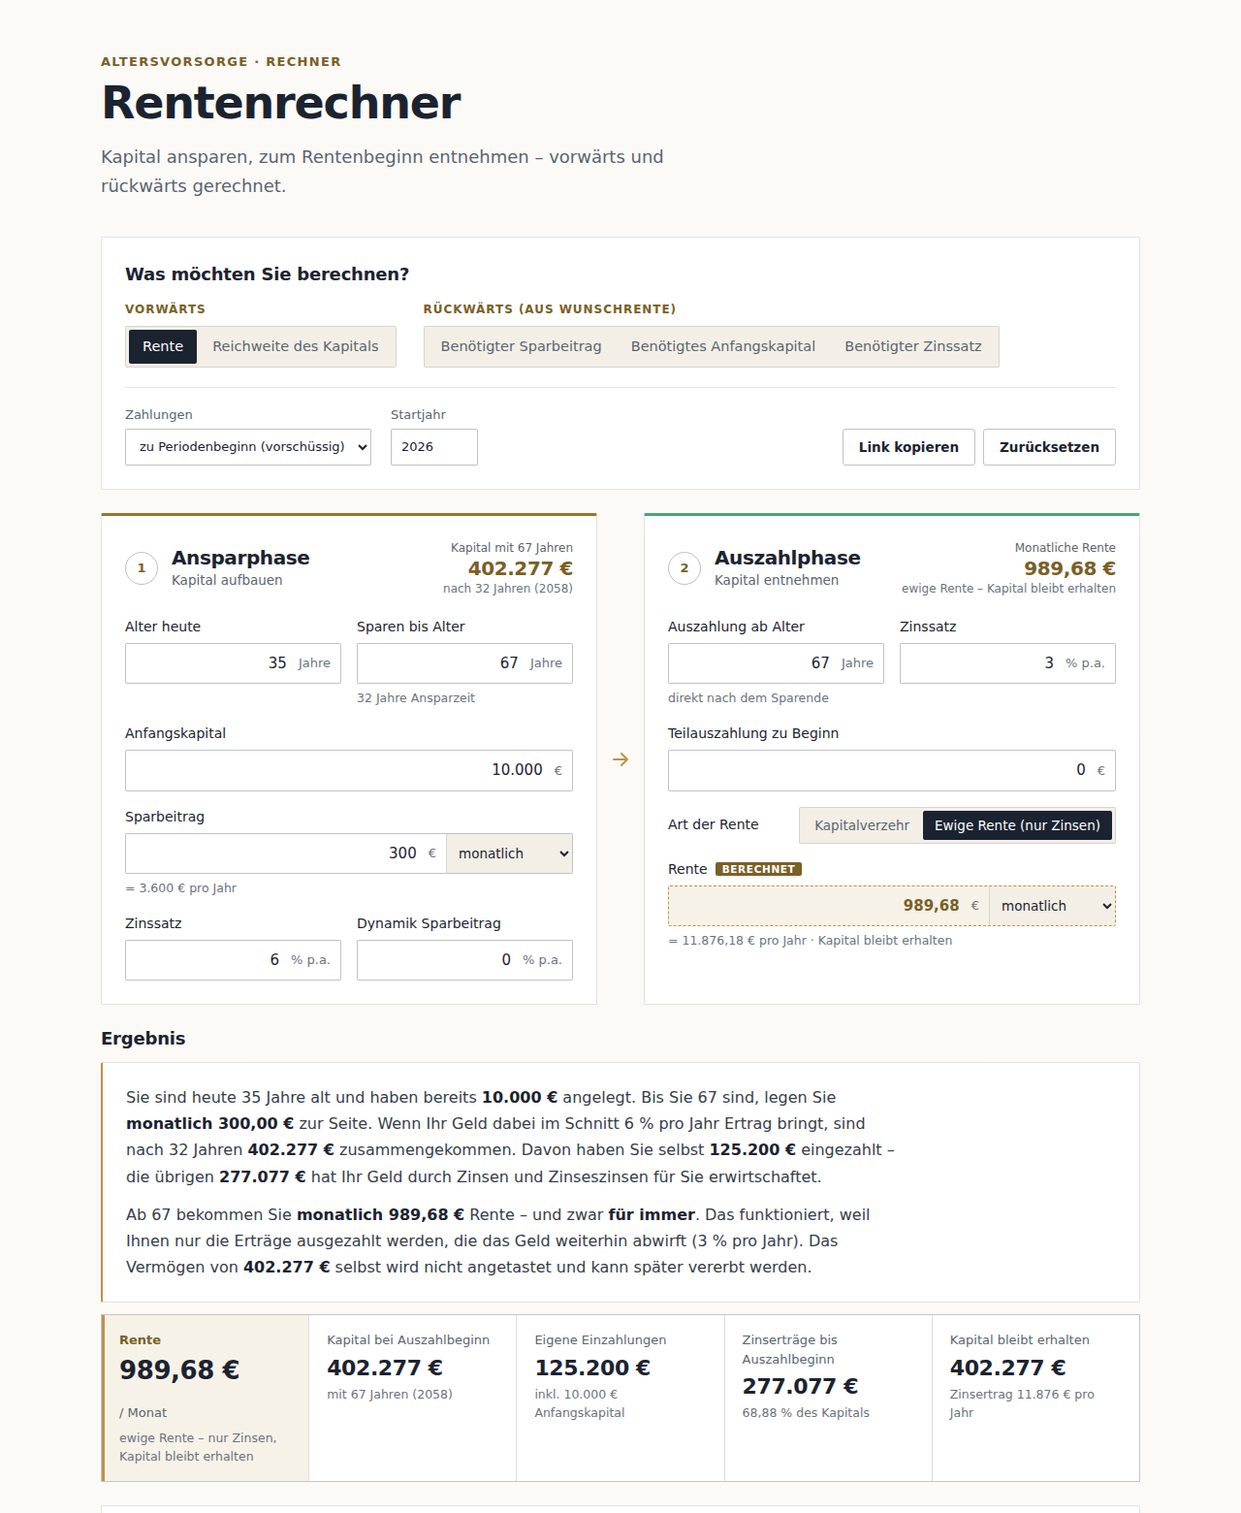
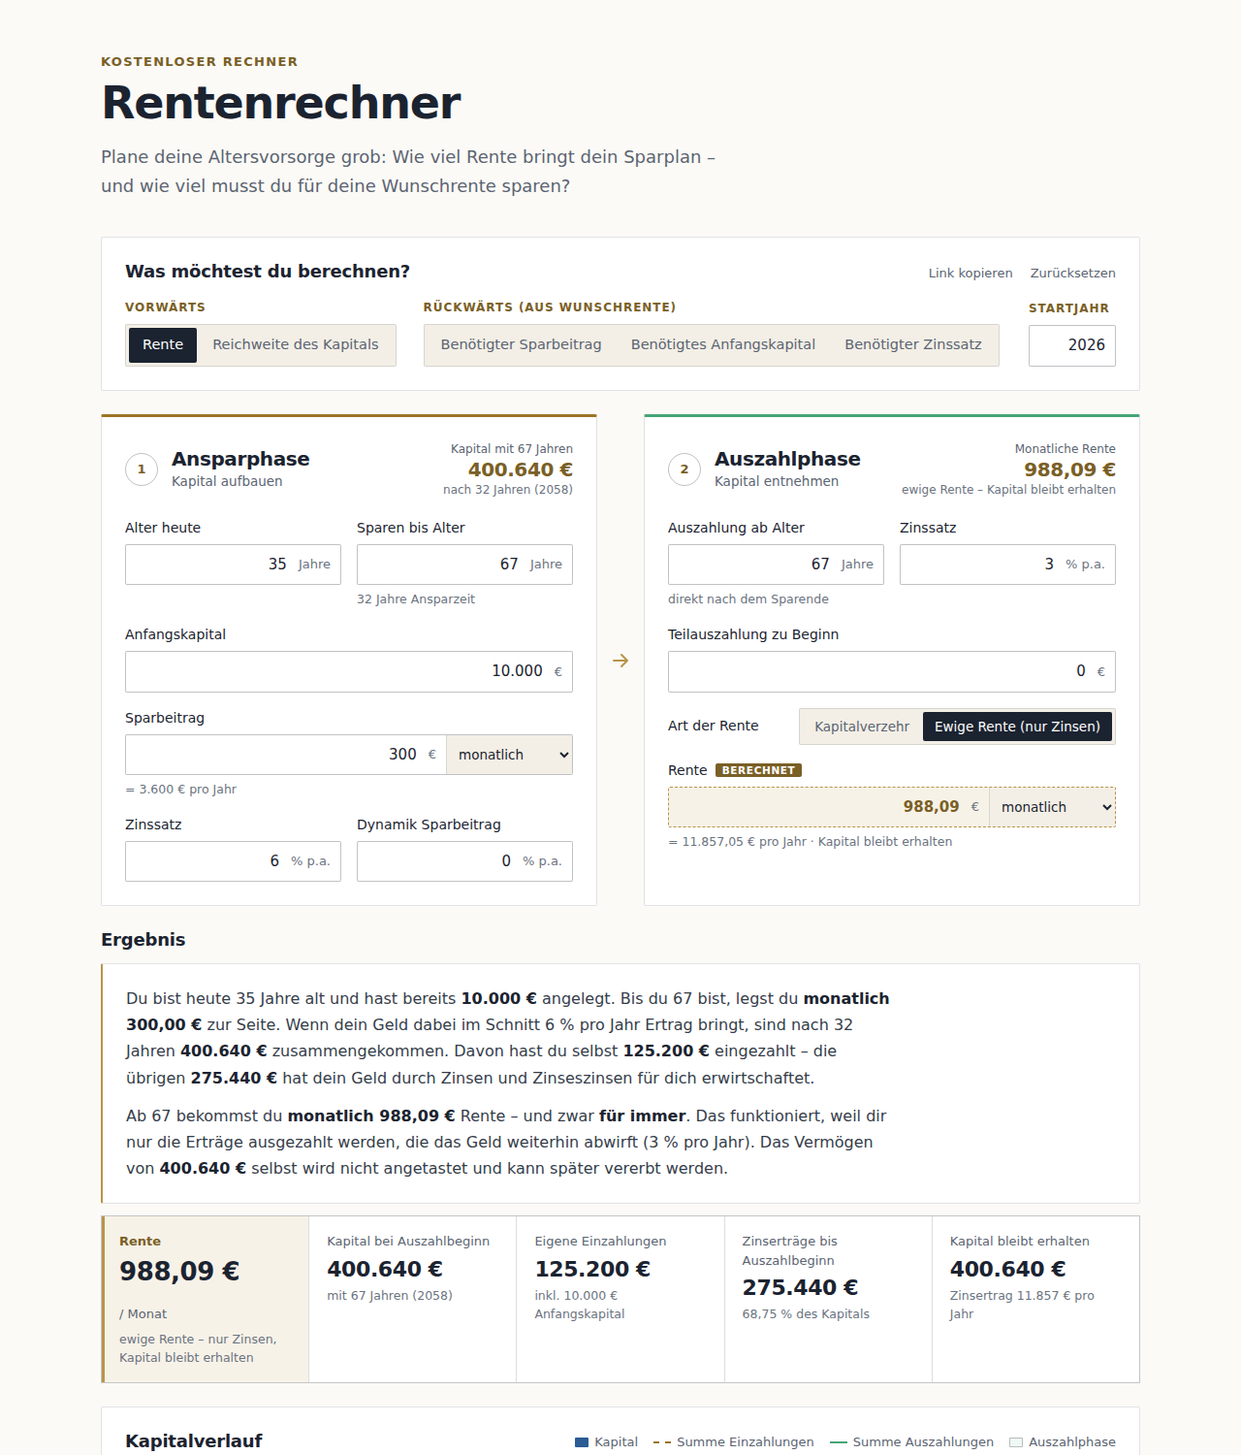
Nachschüssig ohne Auswahl, Du-Form, Startjahr und Links in der Zielauswahl
- Zahlungen fest nachschüssig; die Auswahl „Zahlungen“ entfällt, alte Links mit
  vorschuessig im Hash werden ignoriert
- Oberfläche und Ergebnistext duzen
- Startjahr steht in der Zeile von Vorwärts/Rückwärts; „Link kopieren“ und
  „Zurücksetzen“ dezent oben rechts neben „Was möchtest du berechnen?“
- Seitenkopf knapper: einfacher, kostenloser Rechner für die grobe Planung
- Reichweite: Alter „bis du X bist“ passt zur Rundung der Jahre
- README und Screenshot aktualisiert

Claude-Session: https://claude.ai/code/session_014UZBi7kDmATLXYqEHmzrQu

diff --git a/js/app.js b/js/app.js
@@ -26,6 +26,11 @@
     return (ganz ? f0 : f2).format(v);
   }
 
+  // Alter am Ende der Reichweite, passend zur Rundung von jahreText (auf ganze Monate)
+  function reichtBisAlter(p, e) {
+    return p.auszahlBeginnAlter + Math.floor(Math.round(e.reichweiteJahre * 12) / 12);
+  }
+
   function jahreText(y) {
     if (!Number.isFinite(y)) return 'unbegrenzt';
     let j = Math.floor(y + 1e-9);
@@ -59,11 +64,10 @@
     const werte = standard();
     let gefunden = q.has('ziel');
     for (const [k, v] of q) {
-      if (k === 'ziel') continue;
+      if (k === 'ziel' || k === 'vorschuessig') continue; // Zahlungsweise ist fest nachschüssig
       if (!(k in werte)) continue;
       gefunden = true;
       if (k === 'entnahmeModus') werte[k] = v === 'ewig' ? 'ewig' : 'dauer';
-      else if (k === 'vorschuessig') werte[k] = v !== 'false';
       else if (Number.isFinite(Number(v))) werte[k] = Number(v);
     }
     if (!gefunden) return false;
@@ -76,7 +80,7 @@
     q.set('ziel', zustand.ziel);
     const feld = R.ZIELE[zustand.ziel].feld;
     for (const [k, v] of Object.entries(zustand.werte)) {
-      if (k === feld) continue;
+      if (k === feld || k === 'vorschuessig') continue;
       q.set(k, typeof v === 'number' ? String(Math.round(v * 1e6) / 1e6) : String(v));
     }
     history.replaceState(null, '', `#${q.toString()}`);
@@ -107,7 +111,6 @@
     }
     $('#f-sparIntervall').value = String(zustand.werte.sparIntervall);
     $('#f-rentenIntervall').value = String(zustand.werte.rentenIntervall);
-    $('#f-vorschuessig').value = String(zustand.werte.vorschuessig);
     $(`input[name="ziel"][value="${zustand.ziel}"]`).checked = true;
     $(`input[name="entnahmeModus"][value="${zustand.werte.entnahmeModus}"]`).checked = true;
   }
@@ -279,7 +282,7 @@
     if (zustand.ziel === 'reichweite') {
       const endlich = Number.isFinite(e.reichweiteJahre);
       kennzahl($('#kennzahl-entnahme'), 'Rente reicht bis',
-        endlich ? `Alter ${f0.format(Math.floor(e.endeAlter + 1e-9))}` : 'unbegrenzt', '',
+        endlich ? `Alter ${f0.format(reichtBisAlter(p, e))}` : 'unbegrenzt', '',
         endlich ? `${jahreText(e.reichweiteJahre)} lang` : 'Kapital wird nicht aufgebraucht');
       return;
     }
@@ -312,82 +315,82 @@
     if (R.ZIELE[ziel].richtung === 'rueckwaerts') {
       const dauer = e.modus === 'ewig' ? 'dauerhaft' : `${jahre(p.entnahmeDauer)} lang`;
       const t = [
-        `Ihr Ziel: Ab ${p.auszahlBeginnAlter} Jahren möchten Sie ${dauer} `, B(renteText),
-        ' Rente bekommen. Dafür brauchen Sie zum Rentenbeginn ein Vermögen von ', B(euro(erg.kapitalBedarf)), '. ',
+        `Dein Ziel: Ab ${p.auszahlBeginnAlter} Jahren möchtest du ${dauer} `, B(renteText),
+        ' Rente bekommen. Dafür brauchst du zum Rentenbeginn ein Vermögen von ', B(euro(erg.kapitalBedarf)), '. ',
       ];
       const nichtNoetig = (erg.hinweise || []).length && erg.geloest.wert === 0;
       if (ziel === 'sparrate') {
         t.push(...(nichtNoetig
-          ? ['Das erreichen Sie schon ohne weitere Sparbeiträge – Ihr Startbetrag reicht bereits aus.']
-          : ['Das erreichen Sie, wenn Sie bis dahin ', B(sparText), ' zur Seite legen.']));
+          ? ['Das erreichst du schon ohne weitere Sparbeiträge – dein Startbetrag reicht bereits aus.']
+          : ['Das erreichst du, wenn du bis dahin ', B(sparText), ' zur Seite legst.']));
       } else if (ziel === 'anfangskapital') {
         t.push(...(nichtNoetig
-          ? ['Ein Startbetrag ist dafür nicht nötig – Ihre regelmäßigen Sparbeiträge reichen bereits aus.']
-          : ['Das erreichen Sie, wenn Sie heute einmalig ', B(euro(p.anfangskapital)), ' anlegen.']));
+          ? ['Ein Startbetrag ist dafür nicht nötig – deine regelmäßigen Sparbeiträge reichen bereits aus.']
+          : ['Das erreichst du, wenn du heute einmalig ', B(euro(p.anfangskapital)), ' anlegst.']));
       } else {
-        t.push('Das klappt, wenn sich Ihr Geld beim Sparen jedes Jahr um durchschnittlich ',
+        t.push('Das klappt, wenn sich dein Geld beim Sparen jedes Jahr um durchschnittlich ',
           B(`${nf(2, 2).format(p.zinsAnspar * 100)} %`), ' vermehrt.');
       }
       absaetze.push(t);
     }
 
     // Ansparphase
-    const an = [`Sie sind heute ${p.alterHeute} Jahre alt`];
-    if (p.anfangskapital > 0) an.push(' und haben bereits ', B(euro(p.anfangskapital)), ' angelegt');
+    const an = [`Du bist heute ${p.alterHeute} Jahre alt`];
+    if (p.anfangskapital > 0) an.push(' und hast bereits ', B(euro(p.anfangskapital)), ' angelegt');
     an.push('. ');
     if (a.sparJahre > 0 && p.sparrate > 0) {
-      an.push(`Bis Sie ${p.sparEndeAlter} sind, legen Sie `, B(sparText), ' zur Seite');
+      an.push(`Bis du ${p.sparEndeAlter} bist, legst du `, B(sparText), ' zur Seite');
       if (p.sparDynamik) an.push(` und erhöhen den Betrag jedes Jahr um ${pz(p.sparDynamik)}`);
       an.push('. ');
     }
     if (a.sparJahre > 0) {
       const ertraege = a.kapitalSparende - a.einzahlungen;
-      an.push(`Wenn Ihr Geld dabei im Schnitt ${pz(p.zinsAnspar)} pro Jahr Ertrag bringt, sind nach ${jahrenDativ(a.sparJahre)} `,
-        B(euro(a.kapitalSparende)), ' zusammengekommen. Davon haben Sie selbst ', B(euro(a.einzahlungen)), ' eingezahlt');
+      an.push(`Wenn dein Geld dabei im Schnitt ${pz(p.zinsAnspar)} pro Jahr Ertrag bringt, sind nach ${jahrenDativ(a.sparJahre)} `,
+        B(euro(a.kapitalSparende)), ' zusammengekommen. Davon hast du selbst ', B(euro(a.einzahlungen)), ' eingezahlt');
       if (ertraege >= 0.5) {
-        an.push(' – die übrigen ', B(euro(ertraege)), ' hat Ihr Geld durch Zinsen und Zinseszinsen für Sie erwirtschaftet. ');
+        an.push(' – die übrigen ', B(euro(ertraege)), ' hat dein Geld durch Zinsen und Zinseszinsen für dich erwirtschaftet. ');
       } else {
         an.push('. ');
       }
     }
     if (a.ruheJahre > 0) {
-      an.push(`Danach zahlen Sie nichts mehr ein, das Geld bleibt aber noch ${jahre(a.ruheJahre)} angelegt und wächst bis zum Rentenbeginn mit ${p.auszahlBeginnAlter} auf `,
+      an.push(`Danach zahlst du nichts mehr ein, das Geld bleibt aber noch ${jahre(a.ruheJahre)} angelegt und wächst bis zum Rentenbeginn mit ${p.auszahlBeginnAlter} auf `,
         B(euro(a.kapitalAuszahlbeginn)), '.');
     } else if (a.sparJahre === 0) {
-      an.push('Zum Rentenbeginn stehen Ihnen ', B(euro(a.kapitalAuszahlbeginn)), ' zur Verfügung.');
+      an.push('Zum Rentenbeginn stehen dir ', B(euro(a.kapitalAuszahlbeginn)), ' zur Verfügung.');
     }
     absaetze.push(an);
 
     // Auszahlphase
     const aus = [];
     if (p.teilauszahlung > 0) {
-      aus.push(`Zum Rentenbeginn mit ${p.auszahlBeginnAlter} lassen Sie sich einmalig `, B(euro(p.teilauszahlung)),
+      aus.push(`Zum Rentenbeginn mit ${p.auszahlBeginnAlter} lässt du dir einmalig `, B(euro(p.teilauszahlung)),
         ' auszahlen, zum Beispiel für eine größere Anschaffung. Übrig bleiben ', B(euro(e.kapitalNachTeilauszahlung)), '. ');
     }
     const start = p.teilauszahlung > 0 ? 'Aus diesem Betrag' : `Ab ${p.auszahlBeginnAlter}`;
     const renten = e.summeAuszahlungen - e.teilauszahlung;
     const gesamt = () => {
-      aus.push(' Insgesamt bekommen Sie so ', B(euro(renten)), ' ausgezahlt');
+      aus.push(' Insgesamt bekommst du so ', B(euro(renten)), ' ausgezahlt');
       if (e.zinsen >= 0.5) aus.push(` – ${euro(e.zinsen)} davon sind Erträge, die erst während der Rentenzeit dazukommen`);
       aus.push('.');
     };
     if (e.modus === 'ewig') {
-      aus.push(`${start} bekommen Sie `, B(renteText), ' Rente – und zwar ', B('für immer'),
-        `. Das funktioniert, weil Ihnen nur die Erträge ausgezahlt werden, die das Geld weiterhin abwirft (${pz(p.zinsEntnahme)} pro Jahr). Das Vermögen von `,
+      aus.push(`${start} bekommst du `, B(renteText), ' Rente – und zwar ', B('für immer'),
+        `. Das funktioniert, weil dir nur die Erträge ausgezahlt werden, die das Geld weiterhin abwirft (${pz(p.zinsEntnahme)} pro Jahr). Das Vermögen von `,
         B(euro(e.kapitalNachTeilauszahlung)), ' selbst wird nicht angetastet und kann später vererbt werden.');
     } else if (ziel === 'reichweite') {
-      aus.push(`Wenn Sie sich ${start === 'Aus diesem Betrag' ? 'daraus' : `ab ${p.auszahlBeginnAlter}`} `, B(renteText),
-        ` auszahlen lassen und das restliche Geld weiterhin ${pz(p.zinsEntnahme)} pro Jahr bringt, `);
+      aus.push(`Wenn du dir ${start === 'Aus diesem Betrag' ? 'daraus' : `ab ${p.auszahlBeginnAlter}`} `, B(renteText),
+        ` auszahlen lässt und das restliche Geld weiterhin ${pz(p.zinsEntnahme)} pro Jahr bringt, `);
       if (Number.isFinite(e.reichweiteJahre)) {
-        aus.push('reicht Ihr Vermögen ', B(jahreText(e.reichweiteJahre)), ' – also ungefähr bis Sie ',
-          B(f0.format(Math.floor(e.endeAlter + 1e-9))), ' sind. Danach ist es aufgebraucht.');
+        aus.push('reicht dein Vermögen ', B(jahreText(e.reichweiteJahre)), ' – also ungefähr bis du ',
+          B(f0.format(reichtBisAlter(p, e))), ' bist. Danach ist es aufgebraucht.');
         gesamt();
       } else {
-        aus.push('wird Ihr Vermögen ', B('nie aufgebraucht'), ': Die laufenden Erträge sind mindestens so hoch wie Ihre Rente.');
+        aus.push('wird dein Vermögen ', B('nie aufgebraucht'), ': Die laufenden Erträge sind mindestens so hoch wie deine Rente.');
       }
     } else {
-      aus.push(`${start} bekommen Sie `, B(jahreText(e.reichweiteJahre)), ' lang, also bis Sie ',
-        B(nf(0, 1).format(e.endeAlter)), ' sind, ', B(renteText), ' Rente');
+      aus.push(`${start} bekommst du `, B(jahreText(e.reichweiteJahre)), ' lang, also bis du ',
+        B(nf(0, 1).format(e.endeAlter)), ' bist, ', B(renteText), ' Rente');
       if (p.rentenDynamik && e.anzeigeJahre > 1) {
         aus.push(`, die jedes Jahr um ${pz(p.rentenDynamik)} steigt – zuletzt sind es ${euro(p.rente * Math.pow(1 + p.rentenDynamik, e.anzeigeJahre - 1), 2)}`);
       }
@@ -604,7 +607,6 @@
 
   $('#f-sparIntervall').addEventListener('change', (e) => { zustand.werte.sparIntervall = Number(e.target.value); berechnen(); });
   $('#f-rentenIntervall').addEventListener('change', (e) => { zustand.werte.rentenIntervall = Number(e.target.value); berechnen(); });
-  $('#f-vorschuessig').addEventListener('change', (e) => { zustand.werte.vorschuessig = e.target.value === 'true'; berechnen(); });
 
   for (const r of $$('input[name="entnahmeModus"]')) {
     r.addEventListener('change', () => { zustand.werte.entnahmeModus = r.value; berechnen(); });

diff --git a/index.html b/index.html
@@ -4,59 +4,49 @@
   <meta charset="utf-8">
   <meta name="viewport" content="width=device-width, initial-scale=1">
   <title>Rentenrechner</title>
-  <meta name="description" content="Rentenrechner mit Anspar- und Auszahlphase: Kapitalaufbau, Teilauszahlung, befristete oder ewige Rente – vorwärts und rückwärts gerechnet.">
+  <meta name="description" content="Einfacher, kostenloser Rentenrechner: Plane deine Altersvorsorge grob – wie viel Rente bringt dein Sparplan, und wie viel musst du für deine Wunschrente sparen?">
   <link rel="stylesheet" href="css/seite.css">
   <link rel="stylesheet" href="css/rentenrechner.css">
 </head>
 <body>
   <header class="kopf">
     <div class="kopf-inhalt">
-      <p class="kopf-kicker">Altersvorsorge · Rechner</p>
+      <p class="kopf-kicker">Kostenloser Rechner</p>
       <h1>Rentenrechner</h1>
-      <p class="kopf-lead">Kapital ansparen, zum Rentenbeginn entnehmen – vorwärts und rückwärts gerechnet.</p>
+      <p class="kopf-lead">Plane deine Altersvorsorge grob: Wie viel Rente bringt dein Sparplan – und wie viel musst du für deine Wunschrente sparen?</p>
     </div>
   </header>
 
   <main class="seite rr">
     <!-- Berechnungsziel -->
     <section class="karte ziel-karte" aria-labelledby="ziel-titel">
-      <h2 id="ziel-titel" class="sr-only">Berechnungsziel</h2>
-      <fieldset class="ziel-auswahl">
-        <legend>Was möchten Sie berechnen?</legend>
-        <div class="ziel-gruppen">
-          <div class="ziel-gruppe">
-            <span class="ziel-gruppe-titel">Vorwärts</span>
-            <div class="segmente">
-              <label><input type="radio" name="ziel" value="rente" checked><span>Rente</span></label>
-              <label><input type="radio" name="ziel" value="reichweite"><span>Reichweite des Kapitals</span></label>
-            </div>
-          </div>
-          <div class="ziel-gruppe">
-            <span class="ziel-gruppe-titel">Rückwärts (aus Wunschrente)</span>
-            <div class="segmente">
-              <label><input type="radio" name="ziel" value="sparrate"><span>Benötigter Sparbeitrag</span></label>
-              <label><input type="radio" name="ziel" value="anfangskapital"><span>Benötigtes Anfangskapital</span></label>
-              <label><input type="radio" name="ziel" value="zinsAnspar"><span>Benötigter Zinssatz</span></label>
-            </div>
+      <div class="ziel-kopf">
+        <h2 id="ziel-titel">Was möchtest du berechnen?</h2>
+        <div class="option-knoepfe">
+          <button type="button" class="knopf-dezent" id="btn-teilen">Link kopieren</button>
+          <button type="button" class="knopf-dezent" id="btn-reset">Zurücksetzen</button>
+        </div>
+      </div>
+      <div class="ziel-gruppen">
+        <div class="ziel-gruppe" role="radiogroup" aria-labelledby="ziel-vorwaerts">
+          <span class="ziel-gruppe-titel" id="ziel-vorwaerts">Vorwärts</span>
+          <div class="segmente">
+            <label><input type="radio" name="ziel" value="rente" checked><span>Rente</span></label>
+            <label><input type="radio" name="ziel" value="reichweite"><span>Reichweite des Kapitals</span></label>
           </div>
         </div>
-      </fieldset>
-      <div class="optionen">
-        <label class="option">
-          <span>Zahlungen</span>
-          <select id="f-vorschuessig">
-            <option value="true">zu Periodenbeginn (vorschüssig)</option>
-            <option value="false">zu Periodenende (nachschüssig)</option>
-          </select>
-        </label>
-        <label class="option">
-          <span>Startjahr</span>
+        <div class="ziel-gruppe" role="radiogroup" aria-labelledby="ziel-rueckwaerts">
+          <span class="ziel-gruppe-titel" id="ziel-rueckwaerts">Rückwärts (aus Wunschrente)</span>
+          <div class="segmente">
+            <label><input type="radio" name="ziel" value="sparrate"><span>Benötigter Sparbeitrag</span></label>
+            <label><input type="radio" name="ziel" value="anfangskapital"><span>Benötigtes Anfangskapital</span></label>
+            <label><input type="radio" name="ziel" value="zinsAnspar"><span>Benötigter Zinssatz</span></label>
+          </div>
+        </div>
+        <label class="ziel-gruppe option option-startjahr">
+          <span class="ziel-gruppe-titel">Startjahr</span>
           <input id="f-startJahr" data-feld="startJahr" data-typ="jahr" inputmode="numeric" class="kurz">
         </label>
-        <div class="option-knoepfe">
-          <button type="button" class="knopf-sekundaer" id="btn-teilen">Link kopieren</button>
-          <button type="button" class="knopf-sekundaer" id="btn-reset">Zurücksetzen</button>
-        </div>
       </div>
     </section>
 
@@ -227,7 +217,7 @@
   <footer class="fuss">
     <p>
       Modellrechnung ohne Gewähr. Verzinsung mit konformem Monatszins (der angegebene Zinssatz entspricht der
-      effektiven Jahresrendite). Nicht berücksichtigt: Steuern, Sozialabgaben, Kosten und Inflation
+      effektiven Jahresrendite), Zahlungen jeweils am Ende der Periode (nachschüssig). Nicht berücksichtigt: Steuern, Sozialabgaben, Kosten und Inflation
       (Rentendynamik kann als Inflationsausgleich genutzt werden). In einer Ruhephase zwischen Sparende und
       Auszahlbeginn wird das Kapital mit dem Zinssatz der Ansparphase verzinst.
     </p>

diff --git a/css/rentenrechner.css b/css/rentenrechner.css
@@ -77,9 +77,12 @@
 .rr .ergebnis-text.veraltet { opacity: 0.45; }
 
 /* ---------- Berechnungsziel ---------- */
-.rr .ziel-auswahl { border: 0; margin: 0; padding: 0; min-width: 0; }
-.rr .ziel-auswahl > legend { font-weight: 600; font-size: 18px; letter-spacing: -0.2px; margin-bottom: 14px; padding: 0; }
-.rr .ziel-gruppen { display: flex; flex-wrap: wrap; gap: 16px 28px; }
+.rr .ziel-kopf {
+  display: flex; flex-wrap: wrap; align-items: baseline; justify-content: space-between;
+  gap: 8px 16px; margin-bottom: 14px;
+}
+.rr .ziel-kopf h2 { font-weight: 600; font-size: 18px; letter-spacing: -0.2px; }
+.rr .ziel-gruppen { display: flex; flex-wrap: wrap; align-items: flex-end; gap: 16px 28px; }
 .rr .ziel-gruppe { display: grid; gap: 8px; min-width: 0; }
 .rr .ziel-gruppe-titel {
   font-size: 12px; text-transform: uppercase; letter-spacing: 0.08em;
@@ -103,18 +106,24 @@
 .rr .segmente input:focus-visible + span { outline: 2px solid var(--gold); outline-offset: 2px; }
 .rr .segmente-klein span { padding: 5px 12px; font-size: 13.5px; }
 
-.rr .optionen {
-  display: flex; flex-wrap: wrap; align-items: flex-end; gap: 12px 20px;
-  margin-top: 20px; padding-top: 18px; border-top: 1px solid var(--border);
+/* Startjahr in der Reihe der Rechenziele, gleich hoch wie die Segmente */
+.rr .option-startjahr { margin-left: auto; }
+.rr .option-startjahr input {
+  height: 43px; width: 90px; border: 1px solid var(--border-strong); border-radius: var(--radius-s);
+  background: var(--surface); padding: 0 10px; color: var(--text); text-align: right;
 }
-.rr .option { display: grid; gap: 4px; font-size: 13px; color: var(--text-2); }
-.rr .option select, .rr .option input {
-  height: 38px; border: 1px solid var(--border-strong); border-radius: var(--radius-s);
-  background: var(--surface); padding: 0 10px; color: var(--text);
+.rr .option-startjahr input:focus-visible { outline: none; border-color: var(--text); }
+.rr .option.ungueltig input { border-color: var(--error-border); }
+
+/* Link kopieren / Zurücksetzen: dezent oben rechts */
+.rr .option-knoepfe { display: flex; gap: 18px; margin-left: auto; }
+.rr .knopf-dezent {
+  padding: 2px 0; border: 0; background: none; cursor: pointer;
+  color: var(--text-2); font-size: 13px; font-weight: 500;
+  border-bottom: 1px solid transparent; transition: color 0.2s ease, border-color 0.2s ease;
 }
-.rr .option select:focus-visible, .rr .option input:focus-visible { outline: none; border-color: var(--text); }
-.rr .option input.kurz { width: 90px; }
-.rr .option-knoepfe { display: flex; gap: 8px; margin-left: auto; }
+.rr .knopf-dezent:hover { color: var(--text); border-bottom-color: var(--gold); }
+.rr .knopf-dezent:focus-visible { outline: 2px solid var(--gold); outline-offset: 2px; }
 
 .rr .knopf-sekundaer {
   height: 38px; padding: 0 16px; border-radius: 3px;
@@ -284,7 +293,7 @@
   .rr .phasen { grid-template-columns: minmax(0, 1fr); }
   .rr .phasen-pfeil { justify-content: center; transform: rotate(90deg); }
   .rr .phase-kopf { flex-wrap: wrap; }
-  .rr .option-knoepfe { margin-left: 0; }
+  .rr .option-startjahr { margin-left: 0; }
 }
 @media (max-width: 520px) {
   .rr .karte { padding: 18px 16px; }

diff --git a/js/rechner.js b/js/rechner.js
@@ -43,7 +43,7 @@
     entnahmeModus: 'ewig', // 'dauer' (Kapitalverzehr) | 'ewig' (nur Zinsen)
     entnahmeDauer: 25,
     restkapital: 0,
-    vorschuessig: true,
+    vorschuessig: false, // Zahlungen am Periodenende; in der Oberfläche nicht einstellbar
   });
 
   // Was berechnet wird und welches Eingabefeld dadurch zum Ergebnis wird.

diff --git a/README.md b/README.md
@@ -42,10 +42,9 @@ unverändert.
 
 ```
 ┌──────────────────────────────────────────────────────────────┐
-│ Was möchten Sie berechnen?                                   │
+│ Was möchtest du berechnen?         Link kopieren · Reset     │
 │ Vorwärts:  [Rente] [Reichweite des Kapitals]                 │
-│ Rückwärts: [Sparbeitrag] [Anfangskapital] [Zinssatz]         │
-│ Zahlungen vor-/nachschüssig · Startjahr · Link · Reset       │
+│ Rückwärts: [Sparbeitrag] [Anfangskapital] [Zinssatz]  [Jahr] │
 ├───────────────────────────┬──────────────────────────────────┤
 │ 1 Ansparphase   [Kapital] │ 2 Auszahlphase   [Rente/Alter]   │
 │  Alter heute / Sparen bis │  Auszahlung ab Alter / Zinssatz  │
@@ -84,7 +83,9 @@ wieder denselben Sparbeitrag und kann die Wunschrente von dort aus verändern.
 | Dynamik des Sparbeitrags (% p.a.) | Art: **Kapitalverzehr** (Dauer) oder **ewige Rente** |
 | Zinssatz der Ansparphase | Rente, monatlich / vierteljährlich / jährlich, Dynamik (% p.a.) |
 
-Global: Zahlungen vorschüssig (Periodenbeginn) oder nachschüssig (Periodenende), Startjahr.
+Global: Startjahr (in der Zeile der Rechenziele). Alle Zahlungen sind **nachschüssig**, fallen also am Ende
+der Periode an; der Rechenkern unterstützt auch vorschüssig (`vorschuessig: true`), die Oberfläche bietet das
+bewusst nicht an. Die Oberfläche spricht Nutzer mit „du“ an.
 
 ### Rechenziele
 
@@ -106,7 +107,7 @@ Global: Zahlungen vorschüssig (Periodenbeginn) oder nachschüssig (Periodenende
 - **Kapitalverzehr:** Die Rente wird so bestimmt, dass nach der Auszahldauer genau das gewünschte
   Restkapital übrig bleibt (bei Rentendynamik steigt die Rate jährlich).
 - **Ewige Rente:** Es wird nur der Zinsertrag ausgezahlt, das Kapital bleibt konstant:
-  `R = K · iₚ` (nachschüssig) bzw. `R = K · iₚ / (1 + iₚ)` (vorschüssig) mit dem Periodenzins `iₚ`.
+  `R = K · iₚ` (nachschüssig, Standard) bzw. `R = K · iₚ / (1 + iₚ)` (vorschüssig) mit dem Periodenzins `iₚ`.
 - **Rückwärtsrechnung:** Zuerst wird der Kapitalbedarf zu Auszahlbeginn ermittelt (Barwert der
   Renten + Teilauszahlung + abgezinstes Restkapital). Sparbeitrag und Anfangskapital gehen linear ein
   und werden exakt gelöst, der Zinssatz per Bisektion.
